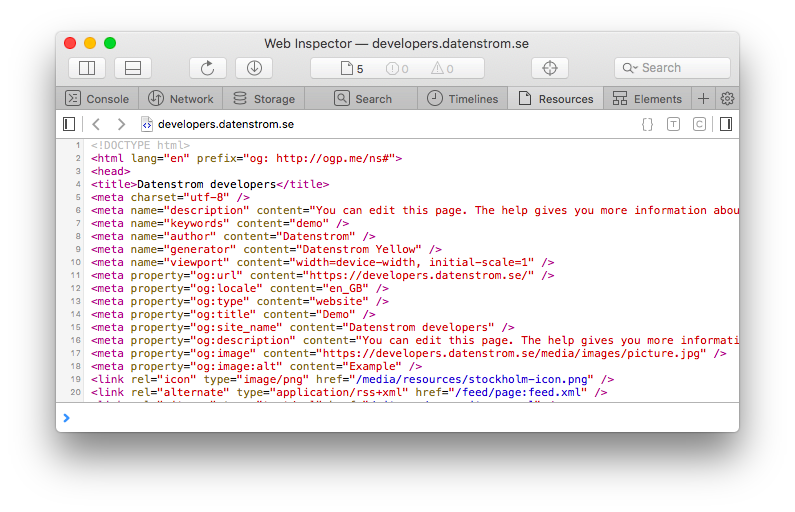
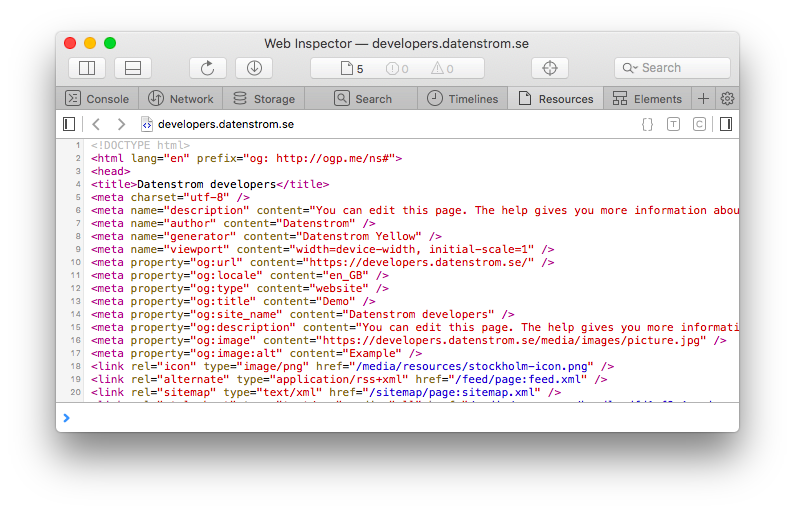
Updated core, removed keywords meta data

Changed region(s): [[0.1208, 0.4062, 0.9358, 0.7812]]

diff --git a/features/core/core.php b/features/core/core.php
@@ -27,8 +27,8 @@ class YellowCore {
         $this->system->setDefault("sitename", "Yellow");
         $this->system->setDefault("author", "Yellow");
         $this->system->setDefault("email", "webmaster");
-        $this->system->setDefault("language", "en");
         $this->system->setDefault("timezone", "UTC");
+        $this->system->setDefault("language", "en");
         $this->system->setDefault("layout", "default");
         $this->system->setDefault("theme", "default");
         $this->system->setDefault("parser", "markdown");
@@ -512,9 +512,6 @@ class YellowPage {
             if (!$this->isExisting("description")) {
                 $this->set("description", $this->yellow->toolbox->createTextDescription($this->parserData, 150));
             }
-            if (!$this->isExisting("keywords")) {
-                $this->set("keywords", $this->yellow->toolbox->createTextKeywords($this->get("title"), 10));
-            }
             if (defined("DEBUG") && DEBUG>=3) echo "YellowPage::parseContent location:".$this->location."<br/>\n";
         }
     }
@@ -984,9 +981,8 @@ class YellowPageCollection extends ArrayObject {
     // Sort page collection by settings similarity
     public function similar($page, $ascendingOrder = false) {
         $location = $page->location;
-        $keywords = $this->yellow->toolbox->createTextKeywords($page->get("title"));
-        $keywords .= ",".$page->get("tag").",".$page->get("author");
-        $tokens = array_unique(array_filter(preg_split("/\s*,\s*/", $keywords), "strlen"));
+        $keywords = strtoloweru($page->get("title").",".$page->get("tag").",".$page->get("author"));
+        $tokens = array_unique(array_filter(preg_split("/[,\s\(\)\+\-]/", $keywords), "strlen"));
         if (!empty($tokens)) {
             $array = array();
             foreach ($this->getArrayCopy() as $page) {
@@ -2703,16 +2699,6 @@ class YellowToolbox {
             }
         }
         return $output;
-    }
-    
-    // Create keywords from text string
-    public function createTextKeywords($text, $keywordsMax = 0) {
-        $tokens = array_unique(preg_split("/[,\s\(\)\+\-]/", strtoloweru($text)));
-        foreach ($tokens as $key=>$value) {
-            if (strlenu($value)<3) unset($tokens[$key]);
-        }
-        if ($keywordsMax) $tokens = array_slice($tokens, 0, $keywordsMax);
-        return implode(", ", $tokens);
     }
     
     // Create title from text string
